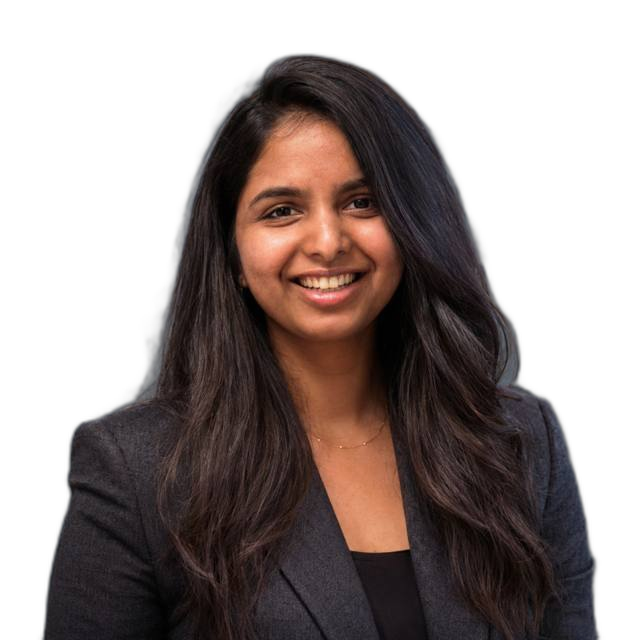
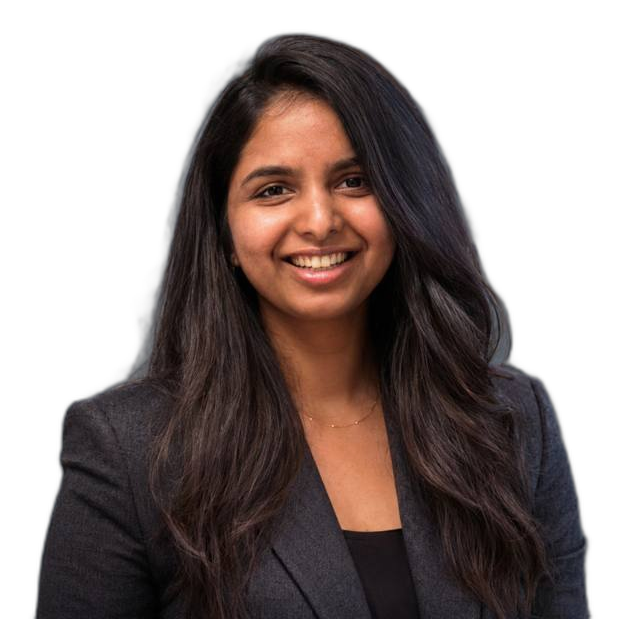
Vertical scrolling hero photo, tight-cropped photos, stacked project list, site-wide animation polish

diff --git a/src/components/Projects.jsx b/src/components/Projects.jsx
@@ -12,6 +12,7 @@ const projects = [
       'Enterprise-grade document Q&A platform with hybrid BM25 + FAISS retrieval, Reciprocal Rank Fusion, and a LangGraph multi-agent workflow. Source-grounded citations, hallucination detection, bounded self-correction, JWT-based RBAC, MLflow evaluation, and Kubernetes/AWS deployment.',
     demo: 'https://enterprise-rag-agent-platform-2ydd.onrender.com/docs',
     repo: 'https://github.com/RishithaChilaka/Enterprise-RAG-ai-agent-platform',
+    tags: ['LangGraph', 'FAISS', 'BM25', 'RBAC', 'MLflow'],
   },
   {
     title: 'Claims Denial Risk Decision-Support',
@@ -20,6 +21,7 @@ const projects = [
       'Full-stack ML application using tuned XGBoost to predict insurance claim denial risk, with SHAP-based explanations and adjustable review thresholds. React/TypeScript dashboard, FastAPI backend, 27 passing tests, Railway deployment for explainable, human-reviewed decisions.',
     demo: 'https://claims-risk-frontend-production.up.railway.app',
     repo: 'https://github.com/RishithaChilaka/claims-denial-risk-predictor',
+    tags: ['XGBoost', 'SHAP', 'FastAPI', 'React/TS'],
   },
   {
     title: 'Churn MLOps Platform',
@@ -28,6 +30,7 @@ const projects = [
       'Production-grade end-to-end MLOps pipeline for customer churn prediction using XGBoost, MLflow, and FastAPI. Automated CI/CD, drift monitoring with Evidently, weekly retraining, LLM-powered prediction explanations, Docker containerization, AWS deployment via Terraform.',
     demo: 'https://churn-mlops-production-2c49.up.railway.app/',
     repo: 'https://github.com/RishithaChilaka/churn-mlops',
+    tags: ['MLflow', 'Evidently', 'Docker', 'Terraform'],
   },
   {
     title: 'Real-Time Fraud Detection & MLOps',
@@ -36,46 +39,82 @@ const projects = [
       'Production-style fraud detection platform using Kafka, Spark Structured Streaming, and XGBoost/LightGBM for real-time transaction scoring. SHAP explainability, Streamlit analyst dashboard, MLflow model governance, Airflow retraining, Prometheus/Grafana monitoring, automated AWS deployment with Terraform and GitHub Actions.',
     demo: null,
     repo: 'https://github.com/RishithaChilaka/Realtime-fraud-detection-platform',
+    tags: ['Kafka', 'Spark', 'XGBoost', 'Airflow', 'Grafana'],
   },
 ]
 
 const Projects = () => {
   return (
-    <section id="projects" className="relative py-24 md:py-32">
-      <div className="max-w-6xl mx-auto px-6 md:px-10">
-        <h2 className="reveal text-3xl md:text-5xl font-black uppercase tracking-tight text-cyan-glow drop-shadow-[0_0_24px_rgba(56,189,248,0.35)] mb-14">
-          Projects
-        </h2>
+    <section id="projects" className="relative py-24 md:py-32 overflow-hidden">
+      <div className="pointer-events-none absolute -top-20 right-0 w-[500px] h-[500px] bg-cyan-glow/10 blur-[160px] rounded-full animate-blob" />
 
-        <div className="grid grid-cols-1 md:grid-cols-2 gap-7">
-          {projects.map((p) => (
+      <div className="max-w-5xl mx-auto px-6 md:px-10 relative">
+        <h2 className="reveal text-3xl md:text-5xl font-black uppercase tracking-tight text-cyan-glow drop-shadow-[0_0_24px_rgba(56,189,248,0.35)] mb-4">
+          Selected Work
+        </h2>
+        <p className="reveal text-slate-400 mb-16 max-w-2xl">
+          A few production systems I've designed, built, and shipped end to end.
+        </p>
+
+        <div className="flex flex-col">
+          {projects.map((p, i) => (
             <article
               key={p.title}
-              className="reveal glass-panel glow-border rounded-[22px] overflow-hidden flex flex-col hover:shadow-[0_0_35px_rgba(56,189,248,0.2)] transition-shadow"
+              className="reveal group border-t border-cyan-glow/10 py-12 md:py-16 first:border-t-0 first:pt-0"
             >
-              <img src={p.image} alt={p.title} className="w-full h-44 md:h-48 object-cover" />
-              <div className="p-6 md:p-7 flex flex-col flex-1">
-                <h3 className="text-lg font-bold text-white mb-3">{p.title}</h3>
-                <p className="text-sm text-slate-300 leading-relaxed flex-1">{p.description}</p>
-                <div className="mt-6 flex flex-wrap gap-3">
-                  {p.demo && (
+              <div className="grid grid-cols-1 md:grid-cols-2 gap-8 md:gap-14 items-center">
+                <div
+                  className={`overflow-hidden rounded-[22px] glow-border transition-shadow duration-500 group-hover:shadow-[0_0_45px_rgba(56,189,248,0.25)] ${
+                    i % 2 === 1 ? 'md:order-2' : ''
+                  }`}
+                >
+                  <img
+                    src={p.image}
+                    alt={p.title}
+                    className="w-full h-64 md:h-80 object-cover transition-transform duration-700 ease-out group-hover:scale-[1.06]"
+                  />
+                </div>
+
+                <div className={i % 2 === 1 ? 'md:order-1' : ''}>
+                  <span className="text-cyan-glow font-mono text-sm tracking-widest">
+                    0{i + 1}
+                  </span>
+                  <h3 className="text-2xl md:text-3xl font-bold text-white mt-2 mb-4 group-hover:text-cyan-glow transition-colors duration-300">
+                    {p.title}
+                  </h3>
+                  <p className="text-sm md:text-base text-slate-300 leading-relaxed mb-5">
+                    {p.description}
+                  </p>
+                  <div className="flex flex-wrap gap-2 mb-7">
+                    {p.tags.map((tag) => (
+                      <span
+                        key={tag}
+                        className="text-xs px-3 py-1.5 rounded-full border border-cyan-glow/25 bg-cyan-glow/10 text-sky-100"
+                      >
+                        {tag}
+                      </span>
+                    ))}
+                  </div>
+                  <div className="flex flex-wrap gap-3">
+                    {p.demo && (
+                      <a
+                        href={p.demo}
+                        target="_blank"
+                        rel="noopener noreferrer"
+                        className="text-xs font-semibold px-4 py-2 rounded-full bg-gradient-to-r from-cyan-glow to-sky-500 text-[#04121f] hover:scale-105 transition-transform duration-300"
+                      >
+                        Live Demo
+                      </a>
+                    )}
                     <a
-                      href={p.demo}
+                      href={p.repo}
                       target="_blank"
                       rel="noopener noreferrer"
-                      className="text-xs font-semibold px-4 py-2 rounded-full bg-gradient-to-r from-cyan-glow to-sky-500 text-[#04121f]"
+                      className="text-xs font-semibold px-4 py-2 rounded-full border border-cyan-glow/40 text-slate-200 hover:bg-cyan-glow/10 hover:scale-105 transition-transform duration-300"
                     >
-                      Live Demo
+                      GitHub
                     </a>
-                  )}
-                  <a
-                    href={p.repo}
-                    target="_blank"
-                    rel="noopener noreferrer"
-                    className="text-xs font-semibold px-4 py-2 rounded-full border border-cyan-glow/40 text-slate-200 hover:bg-cyan-glow/10"
-                  >
-                    GitHub
-                  </a>
+                  </div>
                 </div>
               </div>
             </article>

diff --git a/src/components/Hero.jsx b/src/components/Hero.jsx
@@ -5,7 +5,7 @@ const Hero = () => {
   return (
     <section id="top" className="relative pt-24 md:pt-28 pb-20 md:pb-28 overflow-hidden">
       {/* ambient glow */}
-      <div className="pointer-events-none absolute top-10 left-1/2 -translate-x-1/2 w-[700px] h-[700px] bg-cyan-glow/10 blur-[160px] rounded-full" />
+      <div className="pointer-events-none absolute top-10 left-1/2 -translate-x-1/2 w-[700px] h-[700px] bg-cyan-glow/10 blur-[160px] rounded-full animate-blob" />
 
       <div className="reveal text-center relative z-10">
         <p className="text-cyan-glow text-sm font-semibold tracking-[0.35em] uppercase">
@@ -13,8 +13,8 @@ const Hero = () => {
         </p>
       </div>
 
-      {/* giant scrolling name behind the photo */}
-      <div className="relative mt-4 md:mt-6 h-[200px] sm:h-[280px] md:h-[360px] lg:h-[420px] flex items-center">
+      {/* giant scrolling name behind the photo, photo scrolls vertically like a reel */}
+      <div className="relative mt-4 md:mt-6 h-[260px] sm:h-[340px] md:h-[440px] lg:h-[500px]">
         <div className="absolute inset-0 flex items-center overflow-hidden select-none pointer-events-none">
           <div className="flex w-max whitespace-nowrap animate-marquee-slow">
             {Array.from({ length: 6 }).map((_, i) => (
@@ -28,16 +28,28 @@ const Hero = () => {
           </div>
         </div>
 
-        <div className="reveal relative z-10 mx-auto">
-          <div className="relative animate-float">
-            <div className="absolute inset-x-0 bottom-0 h-2/3 rounded-full bg-cyan-glow/30 blur-[70px] opacity-60" />
-            <img
-              src={heroImg}
-              alt="Rishitha Chilaka"
-              className="relative w-48 h-52 sm:w-64 sm:h-72 md:w-80 md:h-[22rem] lg:w-96 lg:h-96 object-contain drop-shadow-[0_25px_45px_rgba(0,0,0,0.55)]"
-            />
+        {/* fixed ambient glow beneath the photo track */}
+        <div className="pointer-events-none absolute inset-x-0 bottom-4 mx-auto w-56 sm:w-64 h-32 sm:h-40 rounded-full bg-cyan-glow/30 blur-[70px] opacity-60 z-[5]" />
+
+        {/* photo: loops continuously from the bottom of the frame to the top, like a scrolling reel */}
+        <div className="reveal absolute inset-0 z-10 flex justify-center overflow-hidden">
+          <div className="flex flex-col items-center animate-scroll-up">
+            {[0, 1].map((k) => (
+              <div key={k} className="py-6 sm:py-8 md:py-10">
+                <img
+                  src={heroImg}
+                  alt={k === 0 ? 'Rishitha Chilaka' : ''}
+                  aria-hidden={k === 1 ? 'true' : undefined}
+                  className="w-48 h-52 sm:w-64 sm:h-72 md:w-80 md:h-[22rem] lg:w-96 lg:h-96 object-contain drop-shadow-[0_25px_45px_rgba(0,0,0,0.55)]"
+                />
+              </div>
+            ))}
           </div>
         </div>
+
+        {/* soft fade at the top/bottom edges so the loop feels seamless */}
+        <div className="pointer-events-none absolute inset-x-0 top-0 h-10 md:h-16 bg-gradient-to-b from-ink to-transparent z-20" />
+        <div className="pointer-events-none absolute inset-x-0 bottom-0 h-10 md:h-16 bg-gradient-to-t from-ink to-transparent z-20" />
       </div>
 
       <div className="reveal relative z-10 text-center max-w-2xl mx-auto mt-10 md:mt-14 px-6">
@@ -49,13 +61,13 @@ const Hero = () => {
         <div className="mt-9 flex flex-wrap gap-4 justify-center">
           <a
             href="#contact"
-            className="px-7 py-3 rounded-full font-semibold text-sm text-[#04121f] bg-gradient-to-r from-cyan-glow to-sky-500 shadow-[0_0_30px_rgba(56,189,248,0.35)] hover:shadow-[0_0_45px_rgba(56,189,248,0.55)] transition-shadow"
+            className="px-7 py-3 rounded-full font-semibold text-sm text-[#04121f] bg-gradient-to-r from-cyan-glow to-sky-500 shadow-[0_0_30px_rgba(56,189,248,0.35)] hover:shadow-[0_0_45px_rgba(56,189,248,0.55)] hover:scale-105 transition-all duration-300"
           >
             Get in Touch
           </a>
           <a
             href="#projects"
-            className="px-7 py-3 rounded-full font-semibold text-sm border border-cyan-glow/40 text-slate-200 hover:bg-cyan-glow/10 transition-colors"
+            className="px-7 py-3 rounded-full font-semibold text-sm border border-cyan-glow/40 text-slate-200 hover:bg-cyan-glow/10 hover:scale-105 transition-all duration-300"
           >
             View Projects
           </a>

diff --git a/src/components/Contact.jsx b/src/components/Contact.jsx
@@ -37,8 +37,9 @@ const Contact = () => {
   }
 
   return (
-    <section id="contact" className="relative py-24 md:py-32">
-      <div className="max-w-6xl mx-auto px-6 md:px-10">
+    <section id="contact" className="relative py-24 md:py-32 overflow-hidden">
+      <div className="pointer-events-none absolute -bottom-24 left-0 w-[480px] h-[480px] bg-cyan-glow/10 blur-[150px] rounded-full animate-blob" />
+      <div className="max-w-6xl mx-auto px-6 md:px-10 relative">
         <h2 className="reveal text-3xl md:text-5xl font-black uppercase tracking-tight text-cyan-glow drop-shadow-[0_0_24px_rgba(56,189,248,0.35)] mb-14">
           Get In Touch
         </h2>
@@ -66,7 +67,7 @@ const Contact = () => {
                   href="https://www.linkedin.com/in/rishithachilaka/"
                   target="_blank"
                   rel="noopener noreferrer"
-                  className="px-4 py-2 rounded-full border border-cyan-glow/30 text-sm text-slate-200 hover:bg-cyan-glow/10"
+                  className="px-4 py-2 rounded-full border border-cyan-glow/30 text-sm text-slate-200 hover:bg-cyan-glow/10 hover:scale-105 transition-all duration-300"
                 >
                   LinkedIn
                 </a>
@@ -74,7 +75,7 @@ const Contact = () => {
                   href="https://github.com/RishithaChilaka"
                   target="_blank"
                   rel="noopener noreferrer"
-                  className="px-4 py-2 rounded-full border border-cyan-glow/30 text-sm text-slate-200 hover:bg-cyan-glow/10"
+                  className="px-4 py-2 rounded-full border border-cyan-glow/30 text-sm text-slate-200 hover:bg-cyan-glow/10 hover:scale-105 transition-all duration-300"
                 >
                   GitHub
                 </a>
@@ -142,7 +143,7 @@ const Contact = () => {
             <button
               type="submit"
               disabled={isSubmitting}
-              className="mt-2 w-full py-3 rounded-full font-semibold text-sm text-[#04121f] bg-gradient-to-r from-cyan-glow to-sky-500 disabled:opacity-60 transition-opacity"
+              className="mt-2 w-full py-3 rounded-full font-semibold text-sm text-[#04121f] bg-gradient-to-r from-cyan-glow to-sky-500 disabled:opacity-60 hover:shadow-[0_0_35px_rgba(56,189,248,0.5)] hover:scale-[1.02] transition-all duration-300"
             >
               {isSubmitting ? 'Sending...' : 'Send Message'}
             </button>

diff --git a/tailwind.config.js b/tailwind.config.js
@@ -34,6 +34,23 @@ export default {
           '0%, 100%': { transform: 'translateY(0px)' },
           '50%': { transform: 'translateY(-14px)' },
         },
+        scrollUp: {
+          '0%': { transform: 'translateY(0)' },
+          '100%': { transform: 'translateY(-50%)' },
+        },
+        fadeIn: {
+          '0%': { opacity: '0' },
+          '100%': { opacity: '1' },
+        },
+        glowPulse: {
+          '0%, 100%': { boxShadow: '0 0 20px rgba(56,189,248,0.25)' },
+          '50%': { boxShadow: '0 0 38px rgba(56,189,248,0.55)' },
+        },
+        blob: {
+          '0%, 100%': { transform: 'translate(0px, 0px) scale(1)' },
+          '33%': { transform: 'translate(20px, -25px) scale(1.08)' },
+          '66%': { transform: 'translate(-15px, 15px) scale(0.95)' },
+        },
       },
       animation: {
         marquee: 'marquee 30s linear infinite',
@@ -41,6 +58,10 @@ export default {
         'marquee-fast': 'marquee 20s linear infinite',
         'marquee-reverse': 'marqueeReverse 26s linear infinite',
         float: 'float 4.5s ease-in-out infinite',
+        'scroll-up': 'scrollUp 11s linear infinite',
+        'fade-in': 'fadeIn 1s ease-out forwards',
+        'glow-pulse': 'glowPulse 3s ease-in-out infinite',
+        blob: 'blob 12s ease-in-out infinite',
       },
     },
   },

diff --git a/src/components/Experience.jsx b/src/components/Experience.jsx
@@ -37,8 +37,9 @@ const Experience = () => {
   const [openIndex, setOpenIndex] = useState(0)
 
   return (
-    <section id="experience" className="relative py-24 md:py-32">
-      <div className="max-w-4xl mx-auto px-6 md:px-10">
+    <section id="experience" className="relative py-24 md:py-32 overflow-hidden">
+      <div className="pointer-events-none absolute top-0 right-0 w-[420px] h-[420px] bg-cyan-glow/10 blur-[140px] rounded-full animate-blob" />
+      <div className="max-w-4xl mx-auto px-6 md:px-10 relative">
         <h2 className="reveal text-3xl md:text-5xl font-black uppercase tracking-tight text-cyan-glow drop-shadow-[0_0_24px_rgba(56,189,248,0.35)] mb-4">
           What I Can Do
         </h2>
@@ -53,7 +54,7 @@ const Experience = () => {
             return (
               <div
                 key={role.title + role.company}
-                className="glass-panel glow-border rounded-[18px] overflow-hidden"
+                className="glass-panel glow-border rounded-[18px] overflow-hidden transition-shadow duration-300 hover:shadow-[0_0_30px_rgba(56,189,248,0.18)]"
               >
                 <button
                   type="button"

diff --git a/src/App.jsx b/src/App.jsx
@@ -1,4 +1,4 @@
-import React, { useRef } from 'react'
+import React, { useRef, useState, useEffect } from 'react'
 import Navbar from './components/Navbar.jsx'
 import Hero from './components/Hero.jsx'
 import About from './components/About.jsx'
@@ -12,8 +12,24 @@ function App() {
   const rootRef = useRef(null)
   useReveal(rootRef)
 
+  const [scrollPct, setScrollPct] = useState(0)
+  useEffect(() => {
+    const onScroll = () => {
+      const doc = document.documentElement
+      const max = doc.scrollHeight - doc.clientHeight
+      setScrollPct(max > 0 ? (doc.scrollTop / max) * 100 : 0)
+    }
+    window.addEventListener('scroll', onScroll, { passive: true })
+    onScroll()
+    return () => window.removeEventListener('scroll', onScroll)
+  }, [])
+
   return (
     <div ref={rootRef} className="bg-ink bg-grid-pattern min-h-screen overflow-x-hidden">
+      <div
+        className="fixed top-0 left-0 h-[3px] bg-gradient-to-r from-cyan-glow to-sky-500 z-[60] transition-[width] duration-150 ease-out shadow-[0_0_10px_rgba(56,189,248,0.7)]"
+        style={{ width: `${scrollPct}%` }}
+      />
       <Navbar />
       <Hero />
       <About />

diff --git a/src/components/Navbar.jsx b/src/components/Navbar.jsx
@@ -19,15 +19,20 @@ const Navbar = () => {
 
         <nav className="hidden md:flex items-center gap-10 text-sm text-slate-300">
           {links.map((l) => (
-            <a key={l.href} href={l.href} className="hover:text-cyan-glow transition-colors">
+            <a
+              key={l.href}
+              href={l.href}
+              className="relative group hover:text-cyan-glow transition-colors py-1"
+            >
               {l.label}
+              <span className="absolute left-0 -bottom-0.5 h-px w-0 bg-cyan-glow transition-all duration-300 group-hover:w-full" />
             </a>
           ))}
           <a
             href="/Rishitha_Chilaka_Resume.pdf"
             target="_blank"
             rel="noopener noreferrer"
-            className="px-4 py-2 rounded-full border border-cyan-glow/40 text-cyan-glow hover:bg-cyan-glow/10 transition-colors"
+            className="px-4 py-2 rounded-full border border-cyan-glow/40 text-cyan-glow hover:bg-cyan-glow/10 hover:scale-105 transition-all duration-300 animate-glow-pulse"
           >
             Resume
           </a>

diff --git a/src/components/About.jsx b/src/components/About.jsx
@@ -58,8 +58,9 @@ const MarqueeRow = ({ items, direction }) => (
 
 const About = () => {
   return (
-    <section id="about" className="relative py-24 md:py-32">
-      <div className="max-w-6xl mx-auto px-6 md:px-10">
+    <section id="about" className="relative py-24 md:py-32 overflow-hidden">
+      <div className="pointer-events-none absolute -top-24 -left-24 w-[420px] h-[420px] bg-cyan-glow/10 blur-[140px] rounded-full animate-blob" />
+      <div className="max-w-6xl mx-auto px-6 md:px-10 relative">
         <h2 className="reveal text-3xl md:text-5xl font-black uppercase tracking-tight text-cyan-glow drop-shadow-[0_0_24px_rgba(56,189,248,0.35)] mb-14">
           About
         </h2>
